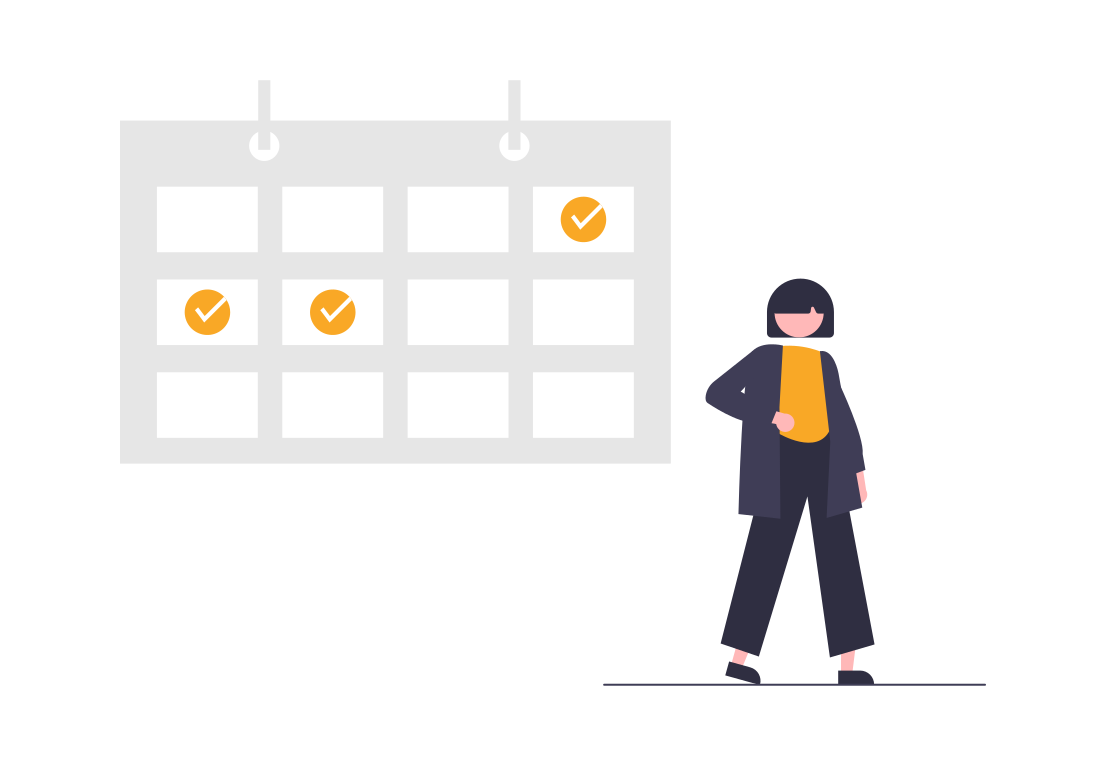
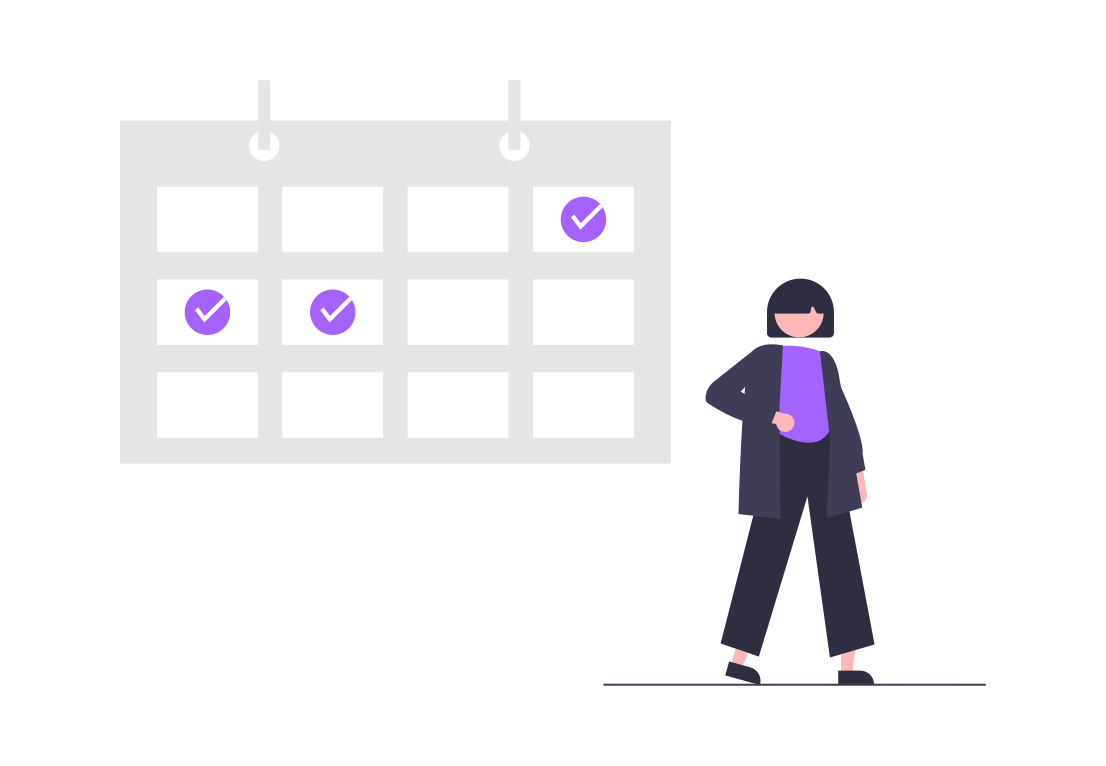
more edits

diff --git a/CSS/dashboard.css b/CSS/dashboard.css
@@ -4,6 +4,7 @@
     box-sizing: border-box;
     list-style-type: none;
     font-family: "Raleway", sans-serif;
+
 }
 
 body::-webkit-scrollbar {
@@ -69,7 +70,7 @@ input:focus {
 section.landing {
     width: 100vw;
     height: 100vh;
-    background-color: #ffeeda;
+    background-color: #E69A8DFF;
     display: flex;
     flex-direction: row;
     justify-content: space-between;
@@ -165,7 +166,7 @@ section.home header h1 {
     width: 25%;
     height: 250px;
     border-radius: 12px;
-    box-shadow: rgba(0, 0, 0, 0.24) 0px 3px 8px;
+    box-shadow: rgba(50, 50, 93, 0.25) 0px 6px 12px -2px, rgba(0, 0, 0, 0.3) 0px 3px 7px -3px;
 }
 
 .widget:hover {
@@ -179,12 +180,17 @@ section.home header h1 {
     border-radius: 0 0 12px 12px;
     display: flex;
     justify-content: center;
-    background-color: #F9A826;
+    background-color: #5F4B8BFF;
 }
 
 .selectionTitle h1 {
-    color: #272727;
+    color: #E69A8DFF;
     margin-top: 10px;
+}
+
+.headerHome h1 {
+    color: #5F4B8BFF;
+    font-weight: 700;
 }
 
 #todoList {
@@ -242,6 +248,8 @@ section.home header h1 {
     width: 100%;
     display: flex;
     display: none;
+    background-color: #5F4B8BFF;
+
 
 
 }
@@ -282,15 +290,24 @@ header #menu:hover {
 }
 
 
-header h3 {
+header h3,
+span {
     font-family: "Raleway", sans-serif;
     font-size: 1.3rem;
+    color: #E69A8DFF;
 }
+
+#menu {
+    color: #E69A8DFF;
+}
+
+
 
 .user p {
     font-family: "Raleway", sans-serif;
     font-size: 1.3rem;
     font-weight: 700;
+    color: #E69A8DFF;
 }
 
 form {
@@ -300,9 +317,9 @@ form {
 .toDo {
     width: calc(90% / 3);
     height: 600px;
-    background-color: white;
+    background-color: #E69A8DFF;
     border-radius: 12px;
-    box-shadow: rgba(0, 0, 0, 0.15) 0px 2px 8px;
+    box-shadow: rgba(0, 0, 0, 0.35) 0px 5px 15px;
 }
 
 .toDo .container {
@@ -385,7 +402,7 @@ form {
 
 .tasks .toDo {
     background: url('../img/undraw_add_files_re_v09g\ \(1\).svg');
-    background-color: white;
+    background-color: #E69A8DFF;
     background-position: center;
     background-repeat: no-repeat;
     background-size: 15rem;
@@ -393,7 +410,7 @@ form {
 
 .tasks .doing {
     background: url('../img/undraw_add_files_re_v09g\ \(1\).svg');
-    background-color: white;
+    background-color: #E69A8DFF;
     background-position: center;
     background-repeat: no-repeat;
     background-size: 15rem;
@@ -401,7 +418,7 @@ form {
 
 .tasks .done {
     background: url('../img/undraw_add_files_re_v09g\ \(1\).svg');
-    background-color: white;
+    background-color: #E69A8DFF;
     background-position: center;
     background-repeat: no-repeat;
     background-size: 15rem;
@@ -411,17 +428,17 @@ form {
     display: flex;
     justify-content: center;
     align-items: center;
-    background-color: white;
+    background-color: #5F4B8BFF;
     font-family: "Raleway", sans-serif;
     font-size: 5rem;
     color: lightgray;
     margin: 10px;
     margin-left: 15px;
-    border: 1px solid lightgray;
+
     border-radius: 12px;
     width: 100%;
     height: 150px;
-    box-shadow: rgba(100, 100, 111, 0.2) 0px 7px 29px 0px;
+    box-shadow: rgba(0, 0, 0, 0.24) 0px 3px 8px;
 }
 
 .toDoCards .task-card:hover {
@@ -442,13 +459,13 @@ form {
 
 .task-title {
     font-size: 1.3rem;
-    color: #272727;
+    color: #E69A8DFF;
     margin-bottom: 10px;
 }
 
 .task-desc {
     font-size: 1rem;
-    color: gray;
+    color: #E69A8DFF;
     margin-bottom: 10px;
 }
 
@@ -458,7 +475,7 @@ form {
     justify-content: space-around;
     width: 100%;
     font-size: 1rem;
-    color: gray;
+    color: #E69A8DFF;
 }
 
 .delete_editIcons {
@@ -609,7 +626,7 @@ form {
     height: 600px;
     background-color: white;
     border-radius: 12px;
-    box-shadow: rgba(0, 0, 0, 0.15) 0px 2px 8px;
+    box-shadow: rgba(0, 0, 0, 0.35) 0px 5px 15px;
 }
 
 .doing .container {
@@ -632,7 +649,7 @@ form {
     height: 600px;
     background-color: white;
     border-radius: 12px;
-    box-shadow: rgba(0, 0, 0, 0.15) 0px 2px 8px;
+    box-shadow: rgba(0, 0, 0, 0.35) 0px 5px 15px;
 }
 
 .done .container {

diff --git a/HTML/index.html b/HTML/index.html
@@ -16,9 +16,9 @@
         <div id="clickHere">
 
 
-            <a href="../HTML/login.html"><svg class="animate__animated animate__fadeInLeft link" stroke="currentColor"
-                    fill="currentColor" stroke-width="0" viewBox="0 0 16 16" height="4em" width="4em"
-                    xmlns="http://www.w3.org/2000/svg">
+            <a href="../HTML/dashboard.html"><svg class="animate__animated animate__fadeInLeft link"
+                    stroke="currentColor" fill="currentColor" stroke-width="0" viewBox="0 0 16 16" height="4em"
+                    width="4em" xmlns="http://www.w3.org/2000/svg">
                     <path fill-rule="evenodd"
                         d="M10.146 4.646a.5.5 0 01.708 0l3 3a.5.5 0 010 .708l-3 3a.5.5 0 01-.708-.708L12.793 8l-2.647-2.646a.5.5 0 010-.708z"
                         clip-rule="evenodd"></path>

diff --git a/HTML/dashboard.html b/HTML/dashboard.html
@@ -113,8 +113,8 @@
                 </svg></div>
         </aside>
         <section class="home">
-            <header>
-                <h1>Welcome to Weekdays, ${name}</h1>
+            <header class="headerHome">
+                <h1><strong>Welcome to Weekdays, ${name}</strong></h1>
             </header>
             <div class="selection">
                 <div class="first">
